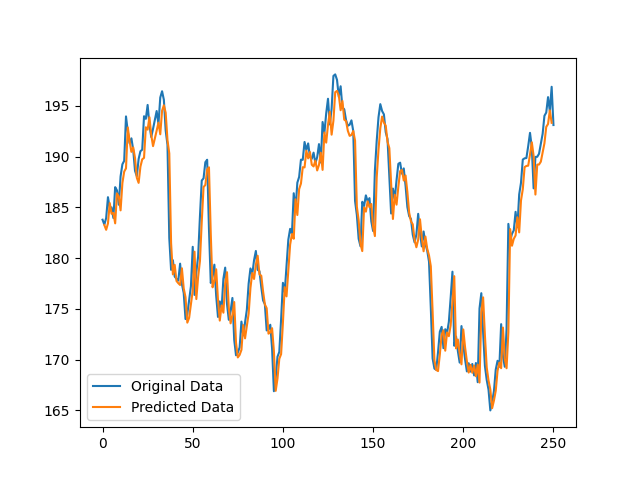
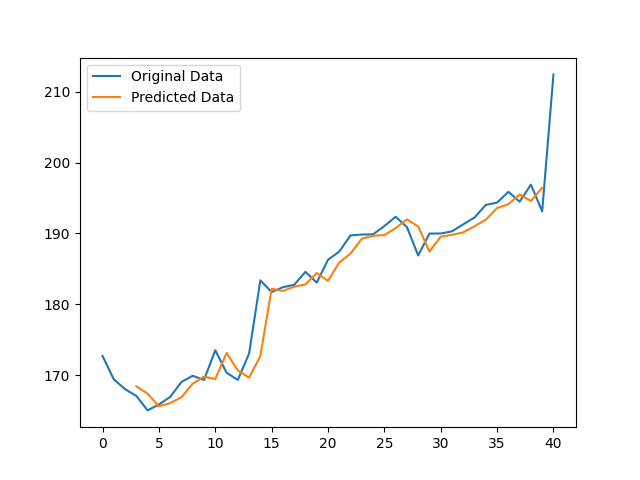
Wykresy LSTM dla AAPL

diff --git a/projekt2/LSTM.py b/projekt2/LSTM.py
@@ -10,6 +10,8 @@ from sklearn.preprocessing import MinMaxScaler
 from sklearn.metrics import mean_squared_error
 from tensorflow.keras.callbacks import EarlyStopping
 
+LOOK_BACK = 3
+
 # convert an array of values into a dataset matrix
 def create_dataset(dataset, time_step=1):
     dataX, dataY = [], []
@@ -49,9 +51,8 @@ train_dates, test_dates = dates_scaled[0:train_size], dates_scaled[train_size:le
 train_close, test_close = close_values_scaled[0:train_size], close_values_scaled[train_size:len(close_values_scaled)]
 
 # Reshape into X=t and Y=t+1
-look_back = 1
-trainX, trainY = create_dataset(train_close, look_back)
-testX, testY = create_dataset(test_close, look_back)
+trainX, trainY = create_dataset(train_close, LOOK_BACK)
+testX, testY = create_dataset(test_close, LOOK_BACK)
 
 # Reshape input to be [samples, time steps, features]
 trainX = np.reshape(trainX, (trainX.shape[0], 1, trainX.shape[1]))
@@ -62,13 +63,13 @@ earlyStopCallback = EarlyStopping(monitor='loss', patience=3)
 
 # Create and fit the LSTM network
 model = Sequential()
-model.add(LSTM(50, return_sequences=True, input_shape=(trainX.shape[1], 1)))
+model.add(LSTM(50, return_sequences=True, input_shape=(trainX.shape[1], LOOK_BACK)))
 model.add(LSTM(50, return_sequences=True))
 model.add(LSTM(50))
 model.add(Dense(1))
 model.compile(loss='mean_squared_error', optimizer='adam')
-model.fit(trainX, trainY, epochs=30, batch_size=1, verbose=1, callbacks=[earlyStopCallback])
-model.save("LSTMmodel.keras")
+model.fit(trainX, trainY, epochs=50, batch_size=1, verbose=1, callbacks=[earlyStopCallback])
+model.save("LSTMmodel3.keras")
 
 # Make predictions
 trainPredict = model.predict(trainX)
@@ -89,16 +90,16 @@ print('Test Score: %.2f RMSE' % (testScore))
 # Shift train predictions for plotting
 trainPredictPlot = np.empty_like(close_values_scaled)
 trainPredictPlot[:, :] = np.nan
-trainPredictPlot[look_back:len(trainPredict) + look_back, :] = trainPredict
+trainPredictPlot[LOOK_BACK:len(trainPredict) + LOOK_BACK, :] = trainPredict
 
 # Shift test predictions for plotting
 testPredictPlot = np.empty_like(close_values_scaled)
 testPredictPlot[:, :] = np.nan
-testPredictPlot[len(trainPredict) + (look_back * 2) + 1:len(close_values_scaled) - 1, :] = testPredict
+testPredictPlot[len(trainPredict) + (LOOK_BACK * 2) + 1:len(close_values_scaled) - 1, :] = testPredict
 
 # Plot baseline and predictions
 plt.plot(scaler.inverse_transform(close_values_scaled), label='Original Data')
 plt.plot(trainPredictPlot, label='Train Predict')
 plt.plot(testPredictPlot, label='Test Predict')
 plt.legend()
-plt.savefig("docs/lstm_plot.png")
+plt.savefig("docs/lstm_plot3.png")

diff --git a/projekt2/useLSTM.py b/projekt2/useLSTM.py
@@ -1,12 +1,13 @@
 import numpy as np
 import matplotlib.pyplot as plt
 from pandas import read_csv
-import pandas as pd
 from tensorflow.keras.models import load_model
 from sklearn.preprocessing import MinMaxScaler
 
+LOOK_BACK = 3
+
 # Load the saved model
-model = load_model("LSTMmodel.keras")
+model = load_model(f"LSTMmodel{LOOK_BACK}.keras")
 TICKER = 'AAPL'
 
 # Function to create dataset matrix
@@ -33,22 +34,22 @@ scaler = MinMaxScaler(feature_range=(0, 1))
 new_close_values = new_close_values.reshape(-1, 1)  # Reshape to 2D
 new_close_values_scaled = scaler.fit_transform(new_close_values)
 
-# Reshape new data into X=t and Y=t+1
-look_back = 1
-newX, newY = create_dataset(new_close_values_scaled, look_back)
+newX, newY = create_dataset(new_close_values_scaled, LOOK_BACK)
 
-# Reshape input to be [samples, time steps, features]
 newX = np.reshape(newX, (newX.shape[0], 1, newX.shape[1]))
 
-# Make predictions
 newPredict = model.predict(newX)
 
 # Invert predictions
 newPredict = scaler.inverse_transform(newPredict)
 newY = scaler.inverse_transform(newY.reshape(-1, 1))
+
+print(type(newY))
+print(newY)
+
 # Plot predictions
 plt.plot(scaler.inverse_transform(new_close_values_scaled), label='Original Data')
-plt.plot(range(look_back, look_back + len(newPredict)), newPredict, label='Predicted Data')
+plt.plot(range(LOOK_BACK, LOOK_BACK + len(newPredict)), newPredict, label='Predicted Data')
 plt.legend()
-plt.savefig("docs/AAPL_predicted_prices.png")
+plt.savefig(f"docs/AAPL_predicted_prices{LOOK_BACK}.png")
 plt.show()

diff --git a/projekt2/download_data.py b/projekt2/download_data.py
@@ -12,7 +12,7 @@ ssl._create_default_https_context = ssl._create_unverified_context
 import yfinance as yf
 
 END_DATE = datetime.today()
-START_DATE = END_DATE - timedelta(days=60)
+START_DATE = END_DATE - timedelta(days=365)
 
 def get_sp500_companies() -> list[str]:
     url = 'https://en.wikipedia.org/wiki/List_of_S%26P_500_companies'
@@ -40,6 +40,6 @@ def download_SP500():
   
   
 if __name__ == "__main__":
-  # download_tickers_history(get_sp500_companies())
+  download_tickers_history(get_sp500_companies())
   # download_SP500()
   
